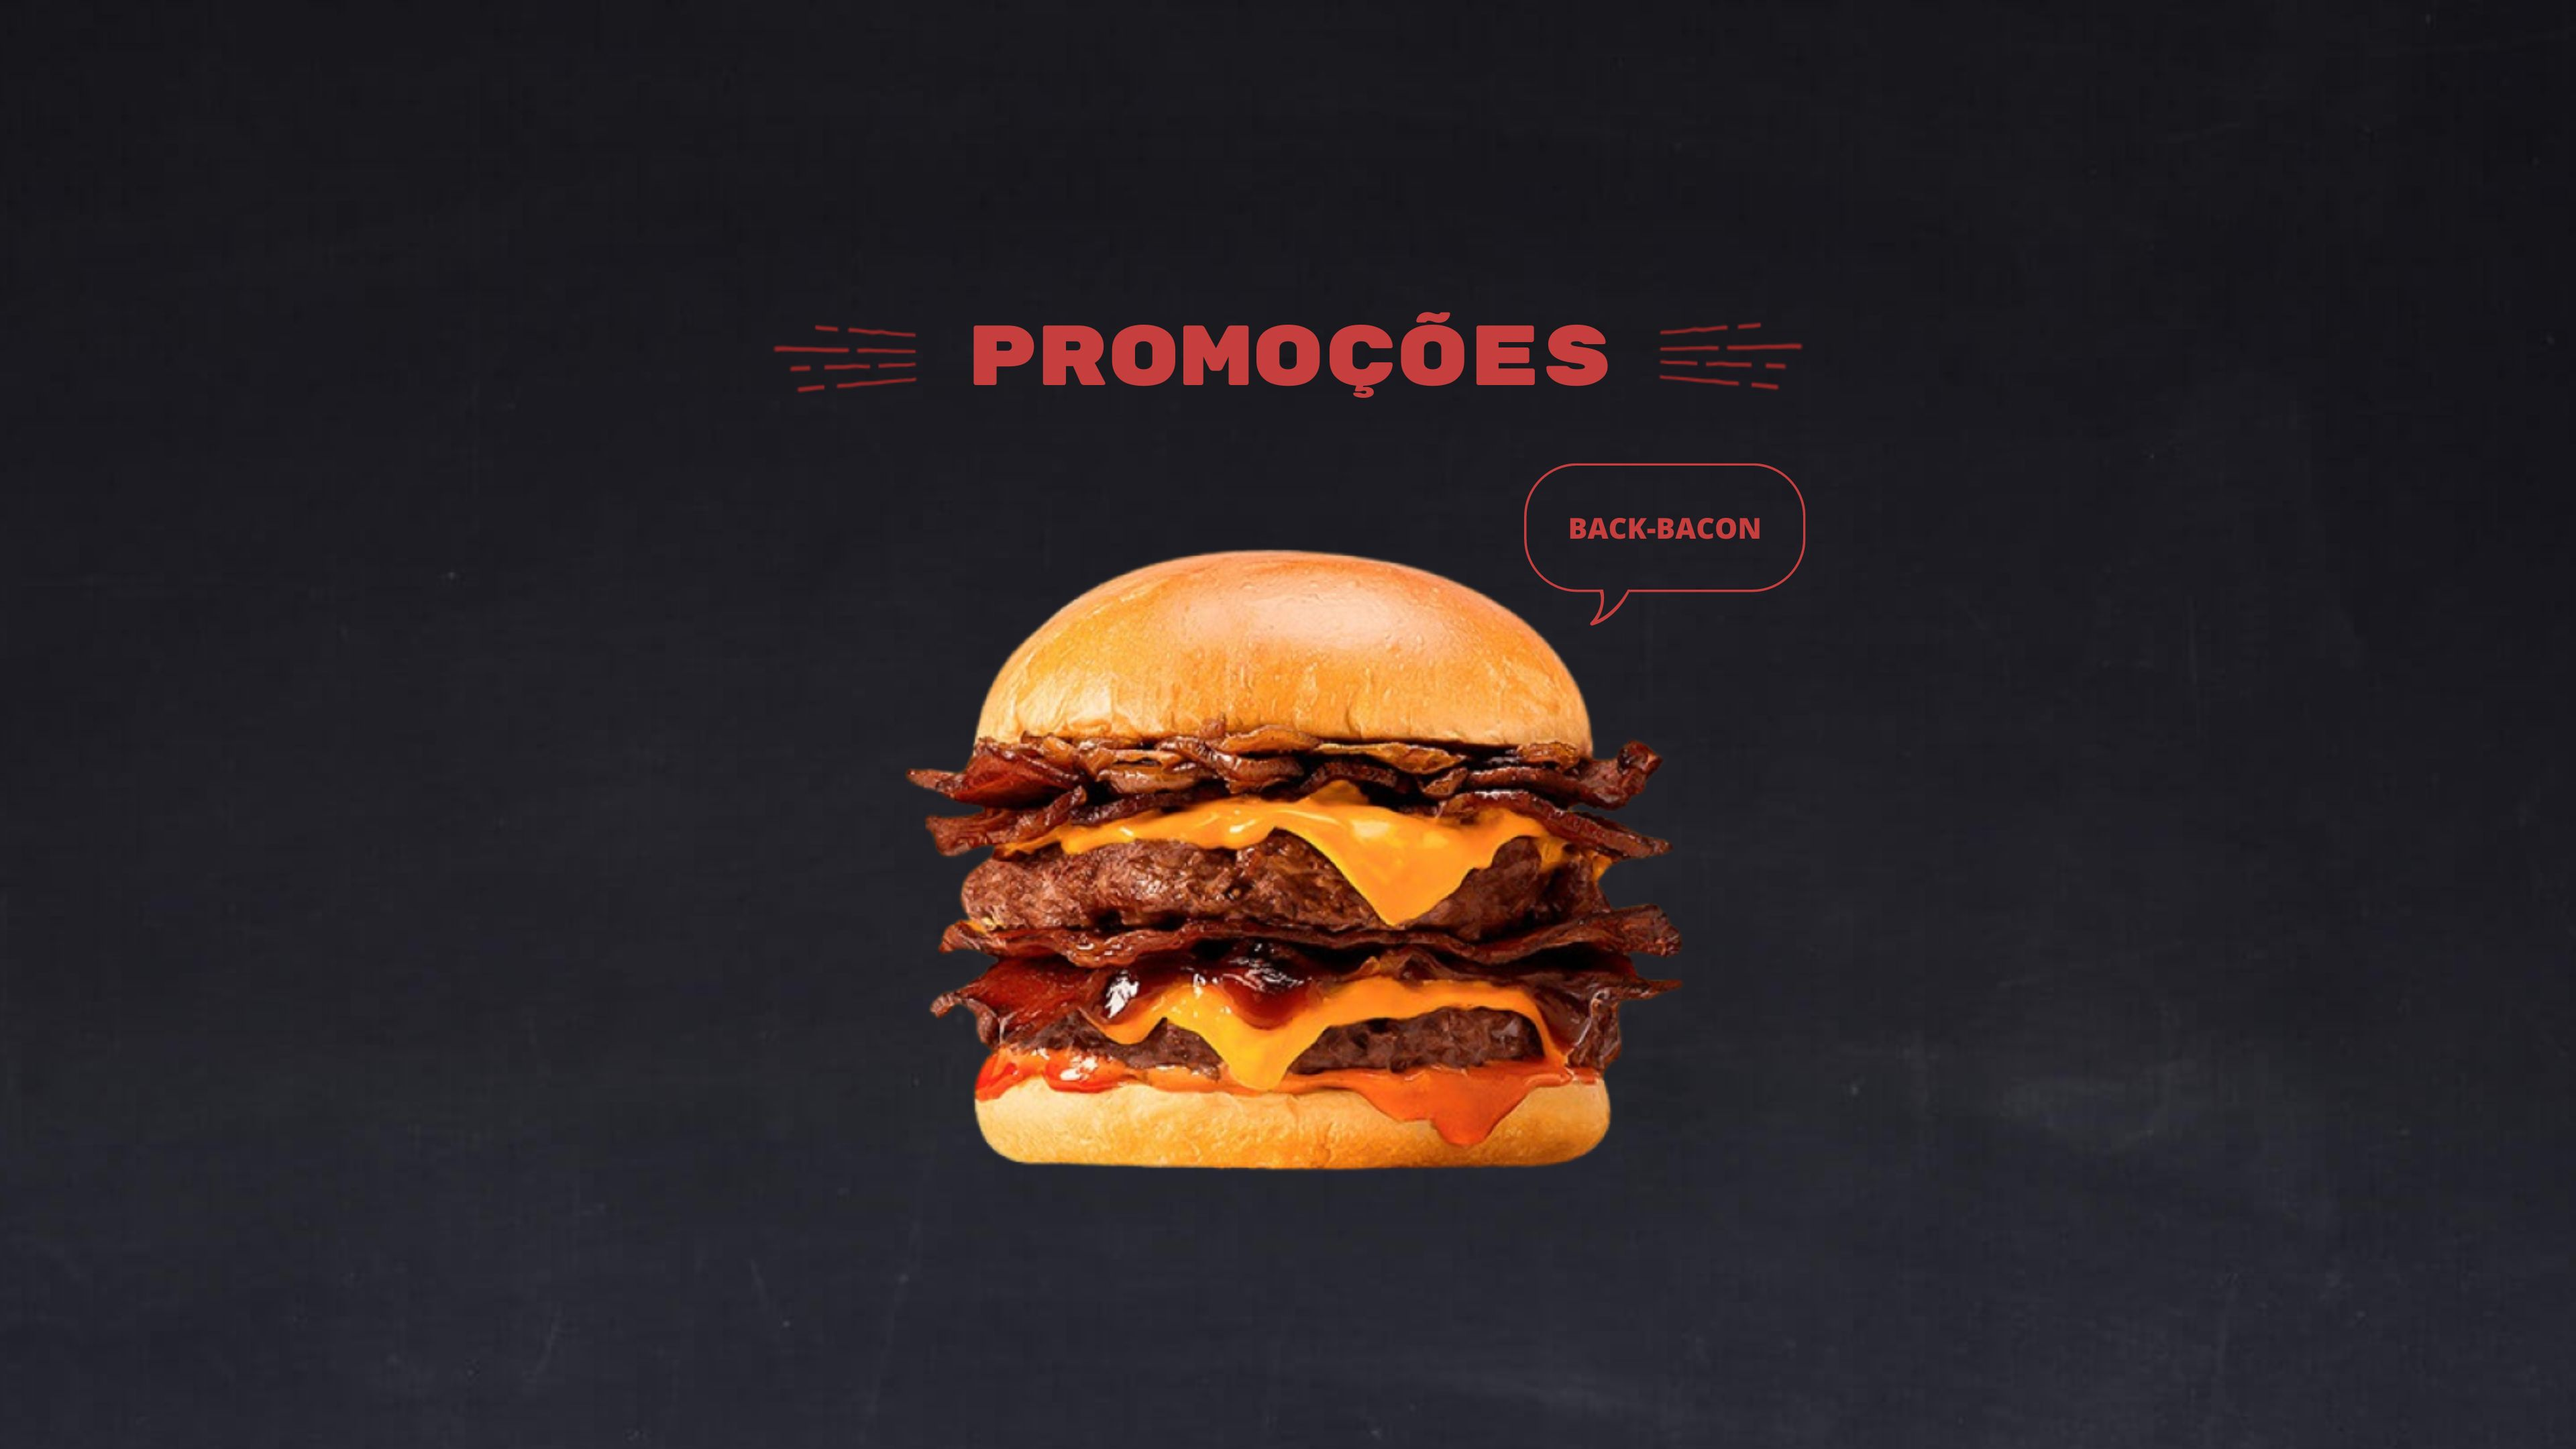
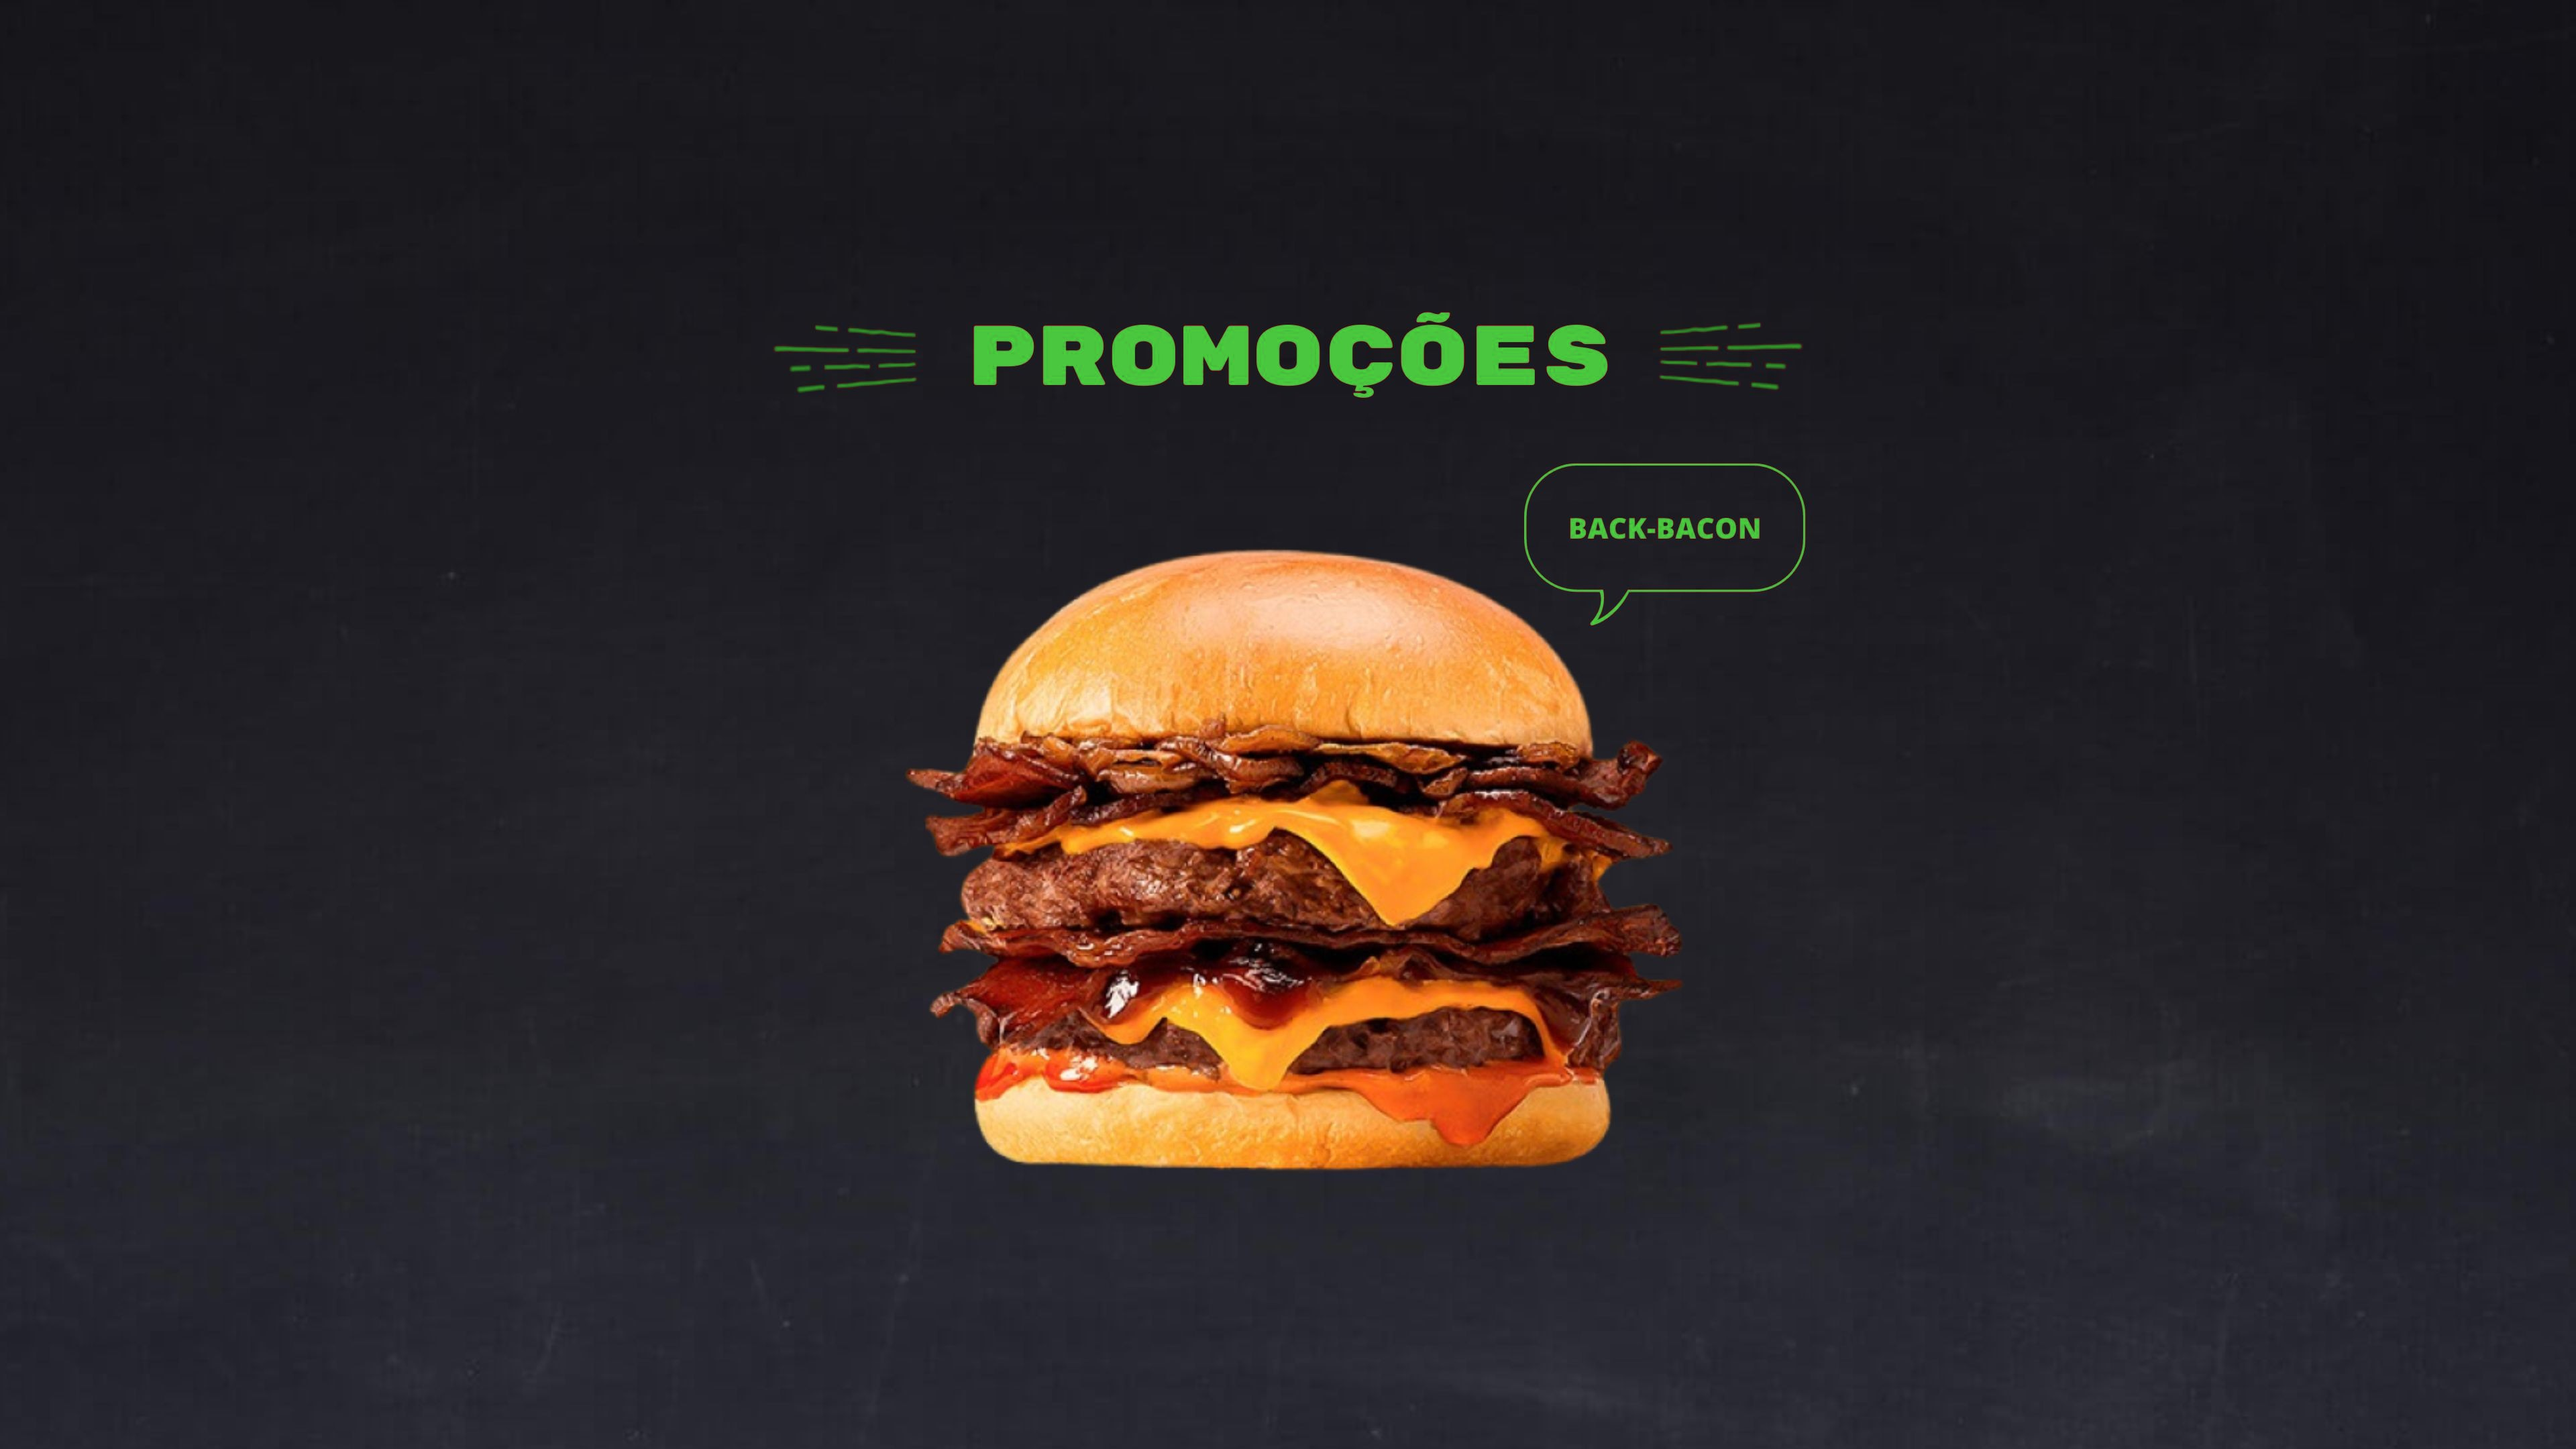
Alteração da cor das letras de vermelho para verde

diff --git a/src/components/atualizar/Atualizar.css b/src/components/atualizar/Atualizar.css
@@ -44,7 +44,7 @@
 .btnatt:hover{
     border-color: chartreuse;
     outline: 0;
-    box-shadow: 0 0 0 0.1rem chartreuse
+    box-shadow: 0px 1.8px 2.0px 0.3px chartreuse
 }
 
 .attfinal{
